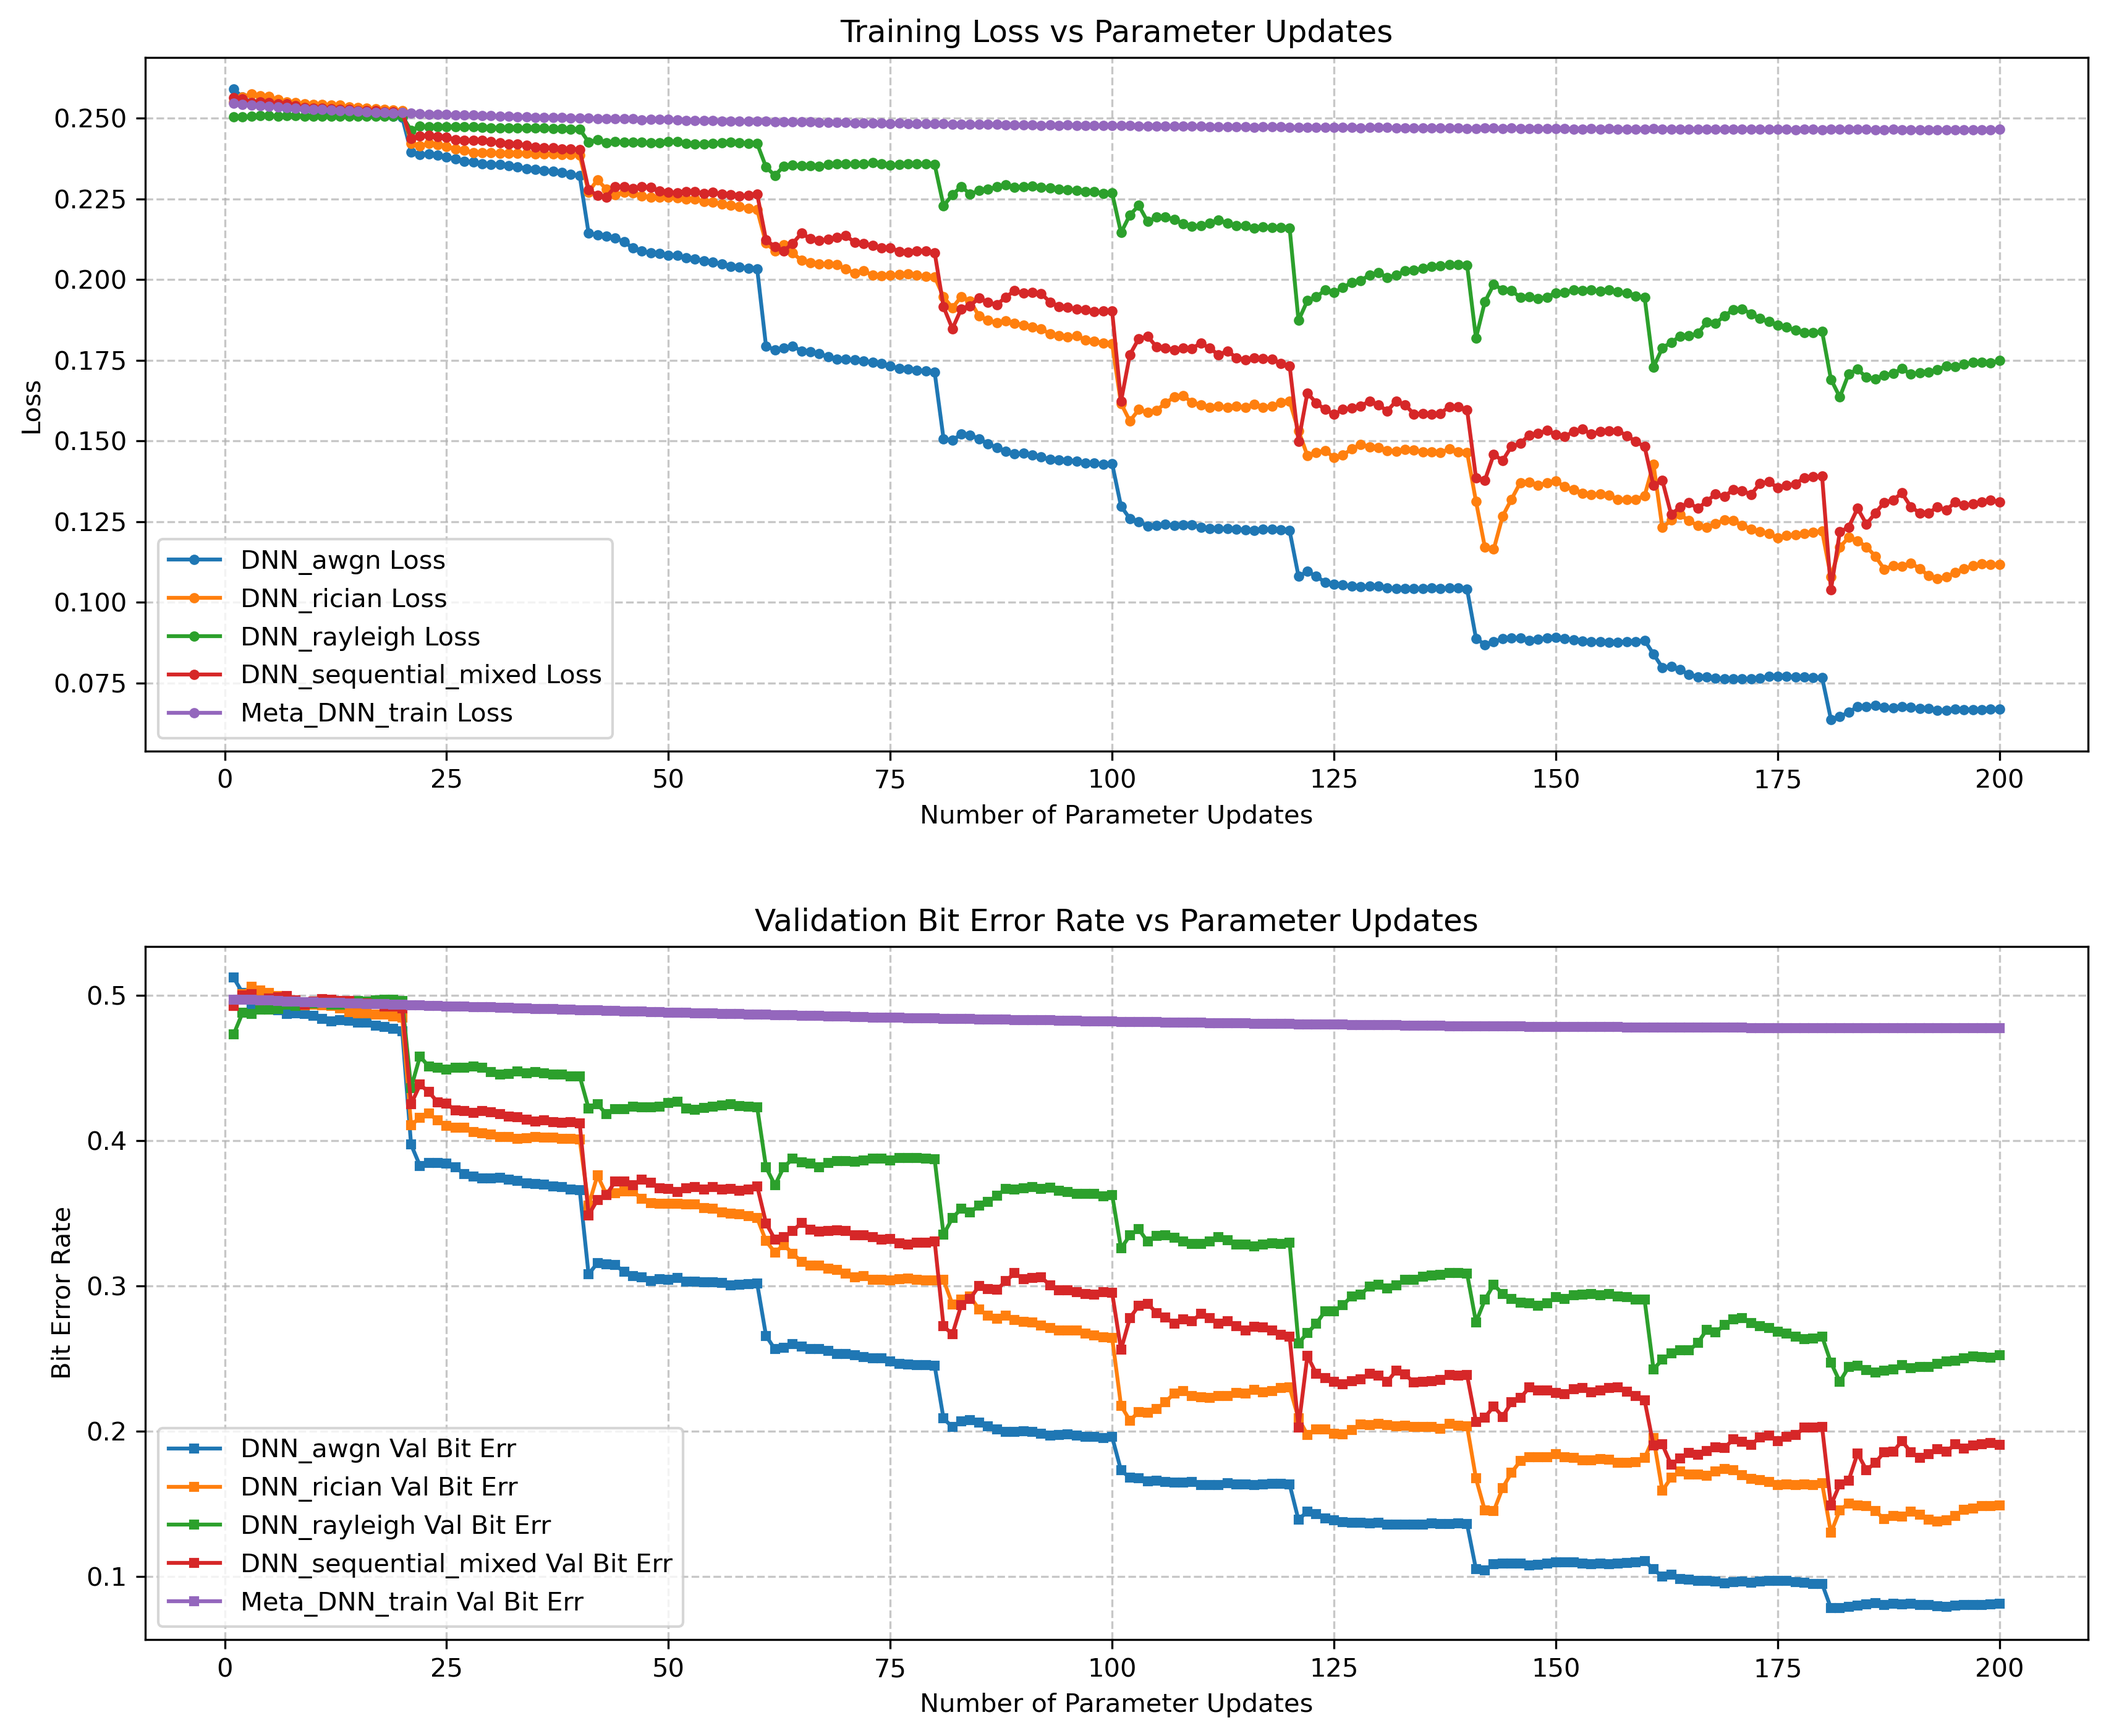
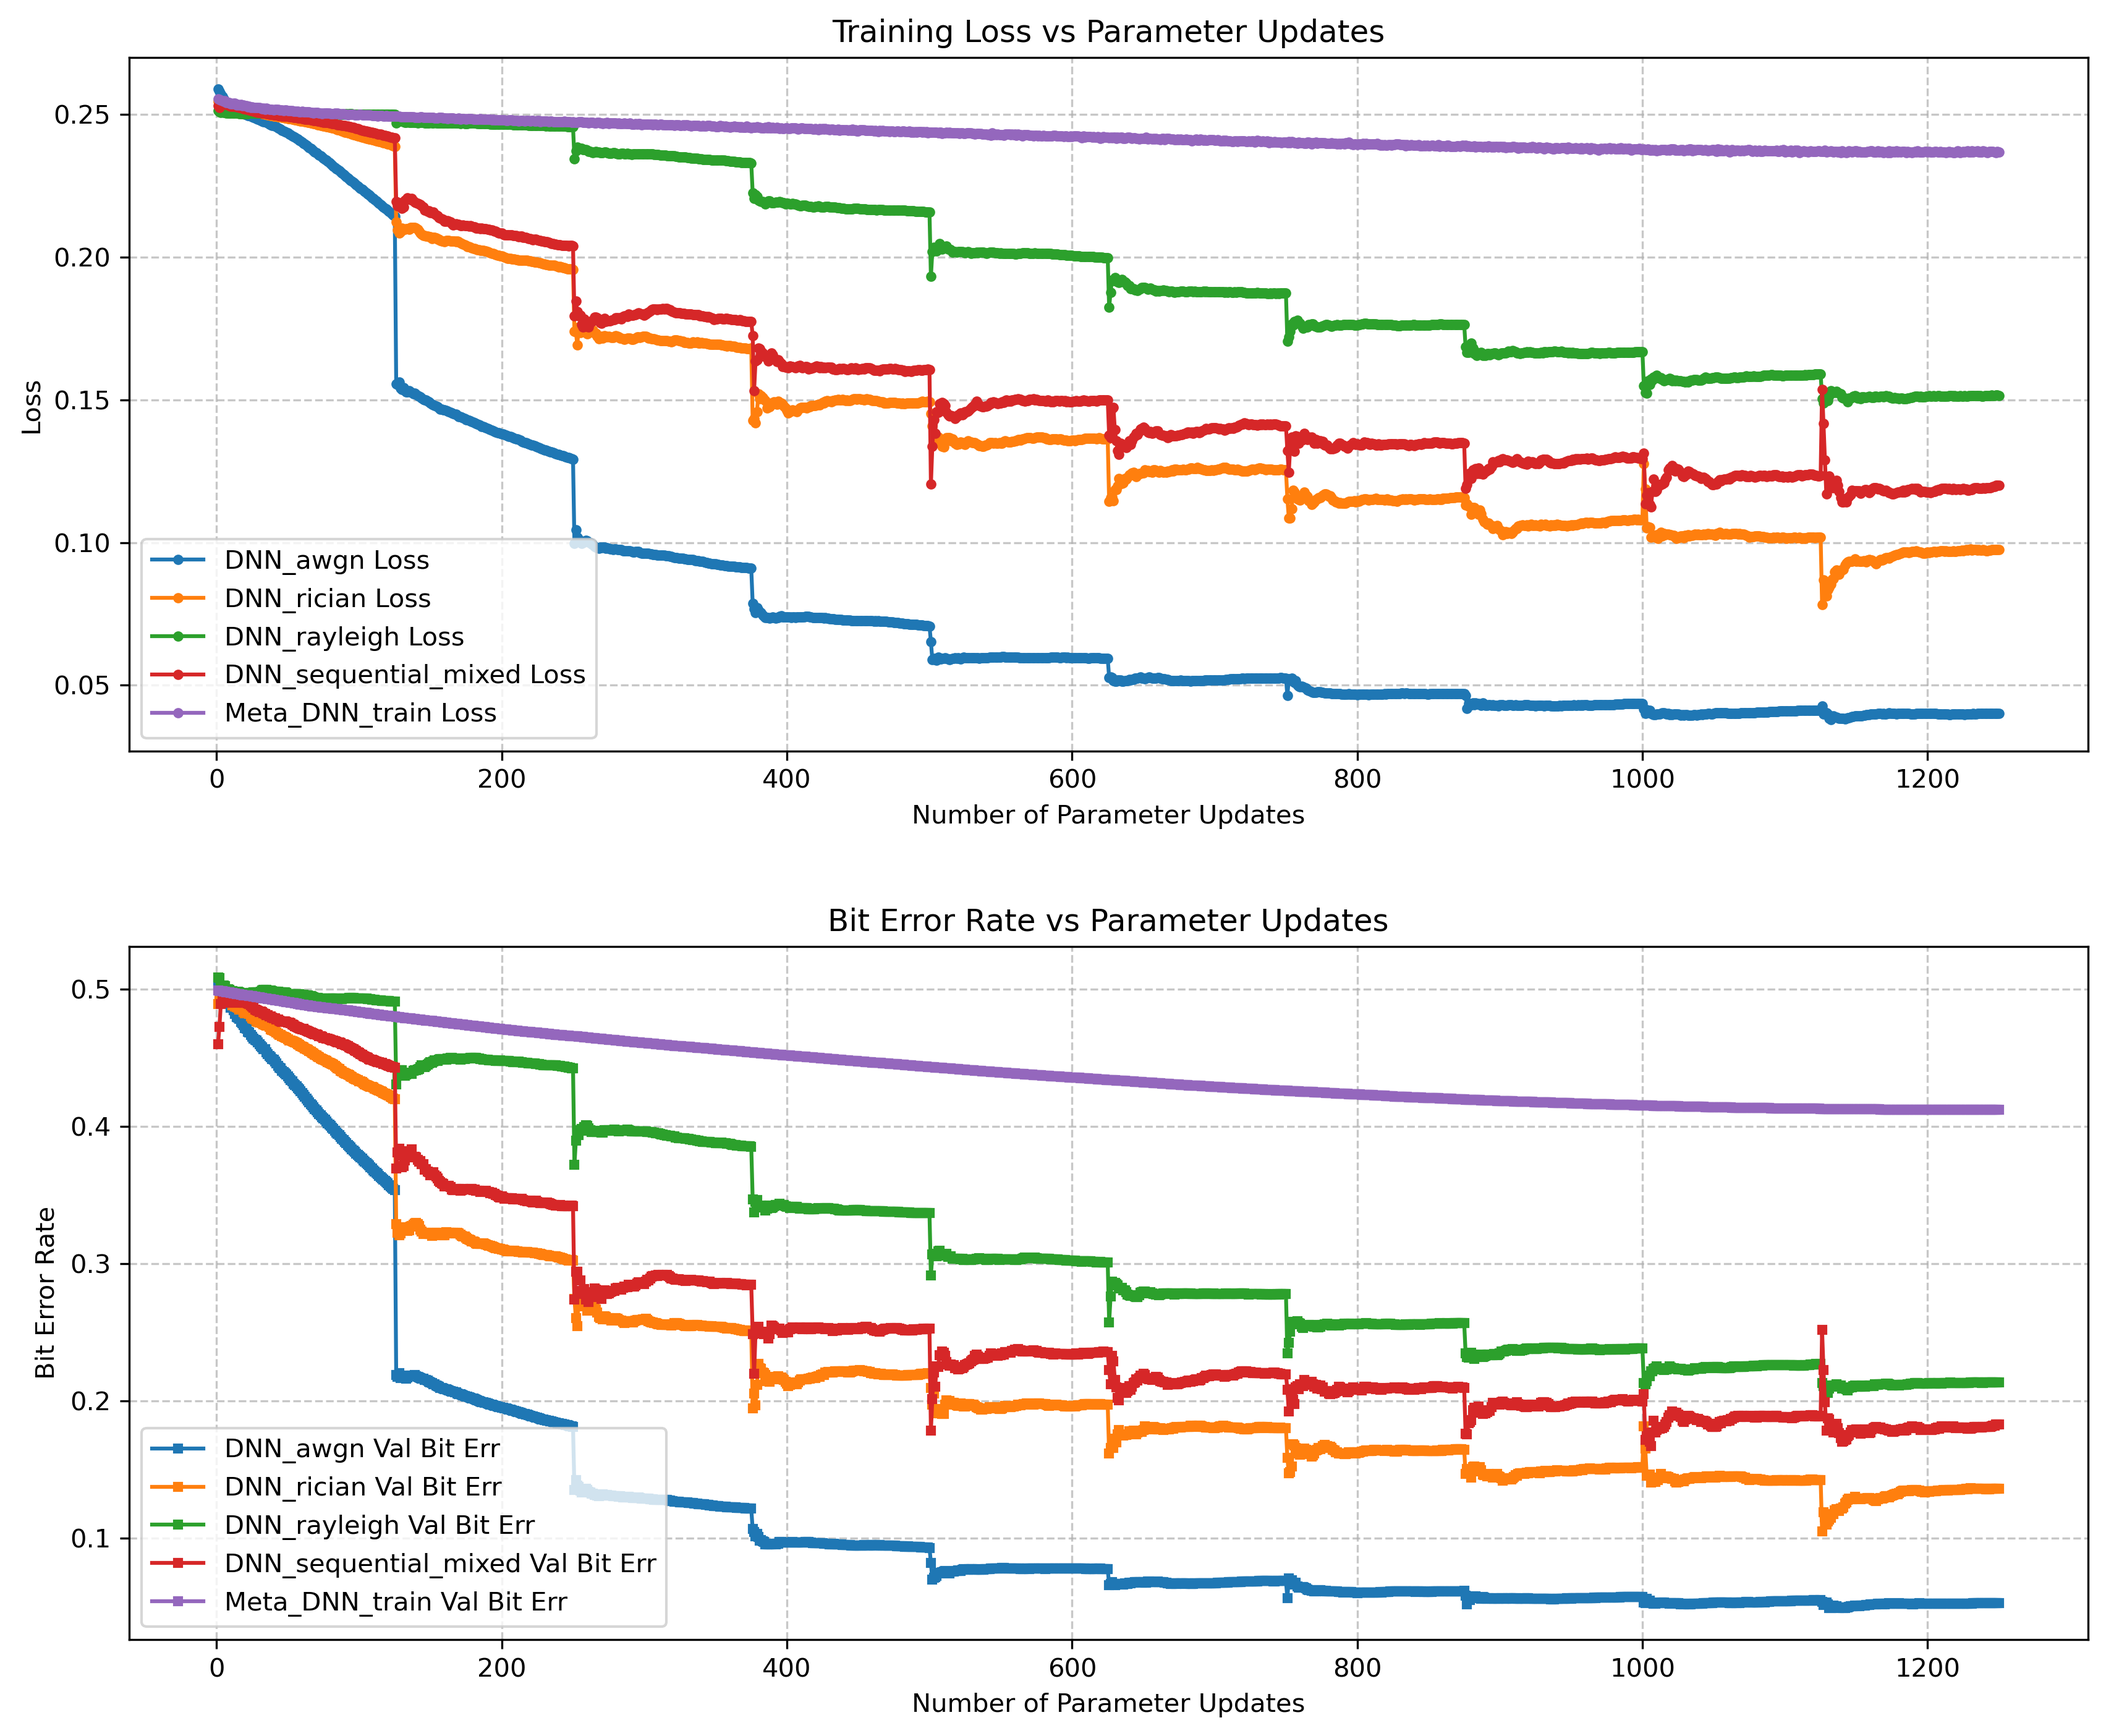
mini_batch of reptile added

diff --git a/singal_detection_withOFDM.py b/singal_detection_withOFDM.py
@@ -429,10 +429,11 @@ class DNN(base_models):
         )
 
 class MetaDNN(base_models):
-    def __init__(self, input_dim, payloadBits_per_OFDM, inner_lr=0.01, meta_lr=0.001):
+    def __init__(self, input_dim, payloadBits_per_OFDM, inner_lr=0.01, meta_lr=0.001, mini_size=32):
         super(MetaDNN, self).__init__(input_dim, payloadBits_per_OFDM)
         self.inner_lr = inner_lr
         self.meta_lr = meta_lr
+        self.mini_batch_size = mini_size
         self.optimizer = tf.keras.optimizers.SGD(inner_lr)
         self.all_epoch_losses = []
         self.all_val_bit_errs = []
@@ -451,24 +452,33 @@ class MetaDNN(base_models):
         model_copy.set_params(self.get_params())
         return model_copy
     
-    def inner_update(self, x_task, y_task, steps=3):
+    def inner_update(self, x_task, y_task, steps=None):
         model_copy = self.clone()
         losses = []
 
+        num_samples = x_task.shape[0]
+        if steps is None:
+            steps = int(np.ceil(num_samples / self.mini_batch_size))
+
         for _ in range(steps):
+
+            batch_indices = np.random.choice(num_samples, size=min(self.mini_batch_size, num_samples), replace=False)
+            x_batch = tf.gather(x_task, batch_indices)
+            y_batch = tf.gather(y_task, batch_indices)
+
             with tf.GradientTape() as tape:
-                preds = model_copy(x_task, training=True)
-                loss = tf.keras.losses.mean_squared_error(y_task, preds)
+                preds = model_copy(x_batch, training=True)
+                loss = tf.keras.losses.mean_squared_error(y_batch, preds)
                 losses.append(tf.reduce_mean(loss))
             grads = tape.gradient(loss, model_copy.trainable_variables)
             self.optimizer.apply_gradients(zip(grads, model_copy.trainable_variables))
-        return model_copy, tf.reduce_mean(losses)
+        return model_copy, tf.reduce_mean(losses), steps
     
     def evaluate(self, x_val, y_val):
         preds = self(x_val, training=False)
         return bit_err(y_val, preds).numpy()
     
-    def train_reptile(self, tasks, meta_epochs=10, inner_steps=3, meta_validation_data=None):
+    def train_reptile(self, tasks, meta_epochs=10, inner_steps=None, meta_validation_data=None):
         for epoch in range(meta_epochs):
             frac_done = epoch/meta_epochs
             current_meta_lr = (1-frac_done) * self.meta_lr 
@@ -481,7 +491,7 @@ class MetaDNN(base_models):
             epoch_inner_updates = 0
             
             for x_task, y_task in tasks:
-                updated_model, task_loss = self.inner_update(x_task, y_task, inner_steps)
+                updated_model, task_loss, inner_steps = self.inner_update(x_task, y_task, inner_steps)
                 epoch_inner_updates += inner_steps  # Count inner updates
                 task_losses.append(task_loss)
                 updated_params = updated_model.get_params()
@@ -534,8 +544,11 @@ if __name__ == "__main__":
     models = {}
     histories = {}
 
+    DNN_samples = 2000
+    DNN_epoch = 10
+    DNN_batch_size = 16
     # Generate training data 
-    bits = simulator.generate_bits(320)
+    bits = simulator.generate_bits(DNN_samples)
     MultiModelBCP.clear_data()
 
     # Train phase for standard DNN
@@ -551,7 +564,7 @@ if __name__ == "__main__":
         print(f"\nTraining on {channel} channel...")
         histories[model_name] = models[model_name].train(
             x_train, y_train,
-            epochs=10, batch_size=16,
+            epochs=DNN_epoch, batch_size=DNN_batch_size,
             validation_data=(x_test, y_test),
             dataset_type=channel
         )
@@ -559,23 +572,31 @@ if __name__ == "__main__":
     # Meta-learning phase
     print("\n=== Meta-Learning Phase ===")
     meta_tasks = []
+    total_meta_interation = int((DNN_samples/DNN_batch_size)*DNN_epoch)
+    print(f"Meta_update: {total_meta_interation}")
+
+    samples_per_channel = DNN_samples // len(meta_channel_types)
+    start_idx = 0
     for channel in meta_channel_types:
-        x_task, y_task = simulator.generate_training_dataset(channel, bits[:1000], mode=channel)
+        end_idx = start_idx + samples_per_channel
+        x_task, y_task = simulator.generate_training_dataset(channel, bits[start_idx:end_idx], mode=channel)
         meta_tasks.append((x_task, y_task))
+        start_idx = end_idx
+
     
     meta_model = MetaDNN(
         input_dim=x_task.shape[1],
         payloadBits_per_OFDM=simulator.payloadBits_per_OFDM,
         inner_lr=0.003,
-        meta_lr=0.25
+        meta_lr=0.25,
+        mini_size = 32
     )
     meta_x_test, meta_y_test = simulator.generate_testing_dataset("random_mixed", 10000)
     
     # Train meta-model and get update counts
     losses, val_errs, update_counts = meta_model.train_reptile(
         meta_tasks, 
-        meta_epochs=200, 
-        inner_steps=3,
+        meta_epochs=total_meta_interation, 
         meta_validation_data=(meta_x_test, meta_y_test)
     )
     
